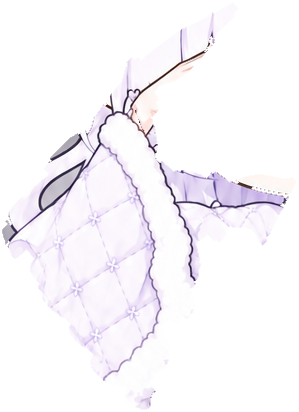
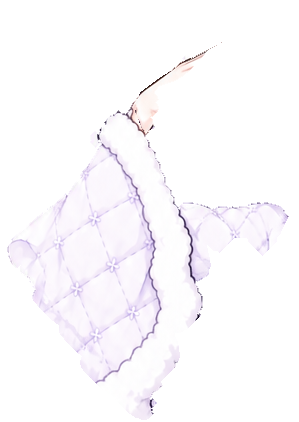
feat(desktop-pet): Gemini 娘冬装「有了」、GPT 娘冬装 11 个手势切得更干净、Gemini 娘坐着做手势不再四只手
- Gemini 娘冬装补上「有了」（拿灯泡），冬装 37 个手势齐了；嘘的袖口用新切图
- GPT 娘冬装 curtsy、cover、salute、heart、cup、pray、oops、shy、vsign、shush、raise 改用精确切图，去掉残留的常服碎片
- Gemini 娘腿上的手移到 sit_top，坐着做手势时被盖住；腿部空隙按站姿裙子拉伸补齐
- 测试：三位娘的腿上双手检查，Gemini 冬装不再缺「有了」

diff --git a/tests/helpers/sit-lap.js b/tests/helpers/sit-lap.js
@@ -61,3 +61,46 @@ export function describeSitLap(name, { dir }) {
     }
   });
 }
+
+/** Skin as the girls' build scripts tell it (scratch/outfits/gemini/build_arms_w.py skin()). */
+const isSkin = c => c[0] > 190 && c[0] - c[2] > 18 && c[0] - c[1] > 4 && c[1] > 120;
+
+/**
+ * Her hands resting in her lap belong to sit_top, which a gesture seated hides (with the standing torso and the
+ * gesture's arms shown instead): left in sit_skirt they stayed in her lap and she showed four hands (Gemini 娘 did, her
+ * navy cuffs cut the hands off the sleeves in the seg map; scratch/art/sit_lap.py lap_hands()). Checked on the textures,
+ * the classic look and each outfit with its own sit: sit_top (placed as at rest, its head-relative box sunk by headDrop)
+ * has her lap hands below the sunk standing torso, and under them sit_skirt is opaque and not a second pair of hands.
+ * `minHand`: the least skin area (rig units²) the lap hands cover. (Not for Claude 娘: her cream dress and book pass
+ * the skin test, so sit_top's "skin" reaches over sleeves the pool does not lie under; her renders show no second pair.)
+ */
+export function describeLapHands(name, { dir, minHand = 15 }) {
+  const model = JSON.parse(readFileSync(new URL('model.json', dir), 'utf8'));
+  const looks = [{ id: 'classic', parts: model.parts, sit: model.poses?.sit }];
+  for (const O of model.outfits || []) if (O.parts) looks.push({ id: O.id, parts: [...model.parts.filter(p => !O.parts.some(q => q.id === p.id)), ...O.parts], sit: O.poses?.sit || model.poses?.sit });
+  const url = p => new URL(p.src || `tex/${p.tex}.png`, dir);
+  describe(`${name}: her lap hands seated`, () => {
+    for (const L of looks) {
+      const by = id => L.parts.find(p => p.id === id) || L.sit?.required?.find(p => p.id === id);
+      const ok = L.sit && ['torso', 'sit_top', 'sit_skirt'].every(id => by(id) && existsSync(url(by(id))));
+      it.skipIf(!ok)(`${L.id}: the lap hands are sit_top's, and sit_skirt under them is plain lap (no second pair of hands when a gesture hides sit_top)`, () => {
+        const [torso, top, lap] = ['torso', 'sit_top', 'sit_skirt'].map(by), drop = L.sit.headDrop;
+        const T = rgba(url(top)), P = rgba(url(lap)), y0 = torso.box[1] + torso.box[3] + drop, st = .25;
+        const tbox = [top.box[0], top.box[1] + drop, top.box[2], top.box[3]];
+        let hand = 0, opaque = 0, skin = 0;
+        for (let y = y0; y < tbox[1] + tbox[3]; y += st) for (let x = tbox[0]; x < tbox[0] + tbox[2]; x += st) {
+          const a = texel(T, tbox, x, y);
+          if (a[3] < 200 || !isSkin(a)) continue;
+          hand++;
+          const b = texel(P, lap.box, x, y);
+          if (b[3] >= 200) { opaque++; if (isSkin(b)) skin++; }
+        }
+        expect(hand * st * st, 'skin of sit_top below the sunk torso (rig units²)').toBeGreaterThan(minHand);
+        // (under them: the sunk standing skirt and the lap carried in from the sides; skin-coloured frill shading 0-9 %;
+        // the hands themselves left in sit_skirt were most of it)
+        expect(opaque / hand, 'sit_skirt opaque under the lap hands').toBeGreaterThan(.95);
+        expect(skin / hand, 'sit_skirt skin under the lap hands').toBeLessThan(.2);
+      });
+    }
+  });
+}

diff --git a/tests/girl-outfit.test.js b/tests/girl-outfit.test.js
@@ -38,7 +38,7 @@ const WEB = new URL('../packages/cortico-world-desktop-pet/web/', import.meta.ur
 const GIRLS = {
   'claude-chan': { make: createClaudeFigure, M: ClaudeM, files: claudeFiles, changed: ['shoe_l', 'shoe_r', 'skirt', 'torso', 'arm_l', 'arm_r', 'capelet'], without: [] },
   'gpt-chan': { make: createGptFigure, M: GptM, files: gptFiles, changed: ['shoe_l', 'shoe_r', 'skirt', 'torso', 'arm_l', 'arm_r'], without: [] },
-  'gemini-chan': { make: createGeminiFigure, M: GeminiM, files: geminiFiles, changed: ['shoe_l', 'shoe_r', 'skirt', 'torso', 'arm_l', 'arm_r'], without: ['idea'] },
+  'gemini-chan': { make: createGeminiFigure, M: GeminiM, files: geminiFiles, changed: ['shoe_l', 'shoe_r', 'skirt', 'torso', 'arm_l', 'arm_r'], without: [] },
   'grok-chan': { make: createGrokFigure, M: GrokM, files: grokFiles, changed: ['shoe_l', 'shoe_r', 'skirt', 'torso', 'arm_l', 'arm_r'], without: [] },
 };
 /** Every part of a pose (its drawing, its patches, its live face's blank and fringe). */

diff --git a/tests/gemini-figure.test.js b/tests/gemini-figure.test.js
@@ -16,7 +16,7 @@ import * as KneelMotion from '../packages/cortico-world-desktop-pet/web/gemini-c
 import { describeKneelArms } from './helpers/kneel-arms.js';
 import { describeArmCut } from './helpers/arm-cut.js';
 import { describeLieCut } from './helpers/lie-cut.js';
-import { describeSitLap } from './helpers/sit-lap.js';
+import { describeLapHands, describeSitLap } from './helpers/sit-lap.js';
 import { describeFloorFace } from './helpers/floor-face.js';
 import * as FaceModule from '../packages/cortico-world-desktop-pet/web/gemini-chan/face.js';
 import { createGeminiFigure, GESTURES } from '../packages/cortico-world-desktop-pet/web/gemini-chan/figure.js';
@@ -2078,3 +2078,4 @@ describeLieCut('Gemini-chan', { dir: DIR, M: KneelMotion, GESTURES });
 
 // seated with a gesture: the standing skirt under the sunk torso, not a blurred fill (scratch/art/sit_lap.py)
 describeSitLap('Gemini-chan', { dir: DIR });
+describeLapHands('Gemini-chan', { dir: DIR });

diff --git a/tests/grok-figure.test.js b/tests/grok-figure.test.js
@@ -16,7 +16,7 @@ import * as KneelMotion from '../packages/cortico-world-desktop-pet/web/grok-cha
 import { describeKneelArms } from './helpers/kneel-arms.js';
 import { describeArmCut } from './helpers/arm-cut.js';
 import { describeLieCut } from './helpers/lie-cut.js';
-import { describeSitLap } from './helpers/sit-lap.js';
+import { describeLapHands, describeSitLap } from './helpers/sit-lap.js';
 import { describeFloorFace } from './helpers/floor-face.js';
 import * as FaceModule from '../packages/cortico-world-desktop-pet/web/grok-chan/face.js';
 import { createGrokFigure, GESTURES } from '../packages/cortico-world-desktop-pet/web/grok-chan/figure.js';
@@ -1998,3 +1998,4 @@ describeLieCut('Grok-chan', { dir: DIR, M: KneelMotion, GESTURES });
 
 // seated with a gesture: the standing skirt under the sunk torso, not a blurred fill (scratch/art/sit_lap.py)
 describeSitLap('Grok-chan', { dir: DIR });
+describeLapHands('Grok-chan', { dir: DIR });

diff --git a/tests/gpt-figure.test.js b/tests/gpt-figure.test.js
@@ -16,7 +16,7 @@ import * as KneelMotion from '../packages/cortico-world-desktop-pet/web/gpt-chan
 import { describeKneelArms } from './helpers/kneel-arms.js';
 import { describeArmCut } from './helpers/arm-cut.js';
 import { describeLieCut } from './helpers/lie-cut.js';
-import { describeSitLap } from './helpers/sit-lap.js';
+import { describeLapHands, describeSitLap } from './helpers/sit-lap.js';
 import { describeFloorFace } from './helpers/floor-face.js';
 import * as FaceModule from '../packages/cortico-world-desktop-pet/web/gpt-chan/face.js';
 import { createGptFigure, GESTURES } from '../packages/cortico-world-desktop-pet/web/gpt-chan/figure.js';
@@ -2009,3 +2009,4 @@ describeLieCut('GPT-chan', { dir: DIR, M: KneelMotion, GESTURES });
 
 // seated with a gesture: the standing skirt under the sunk torso, not a blurred fill (scratch/art/sit_lap.py)
 describeSitLap('GPT-chan', { dir: DIR });
+describeLapHands('GPT-chan', { dir: DIR });
